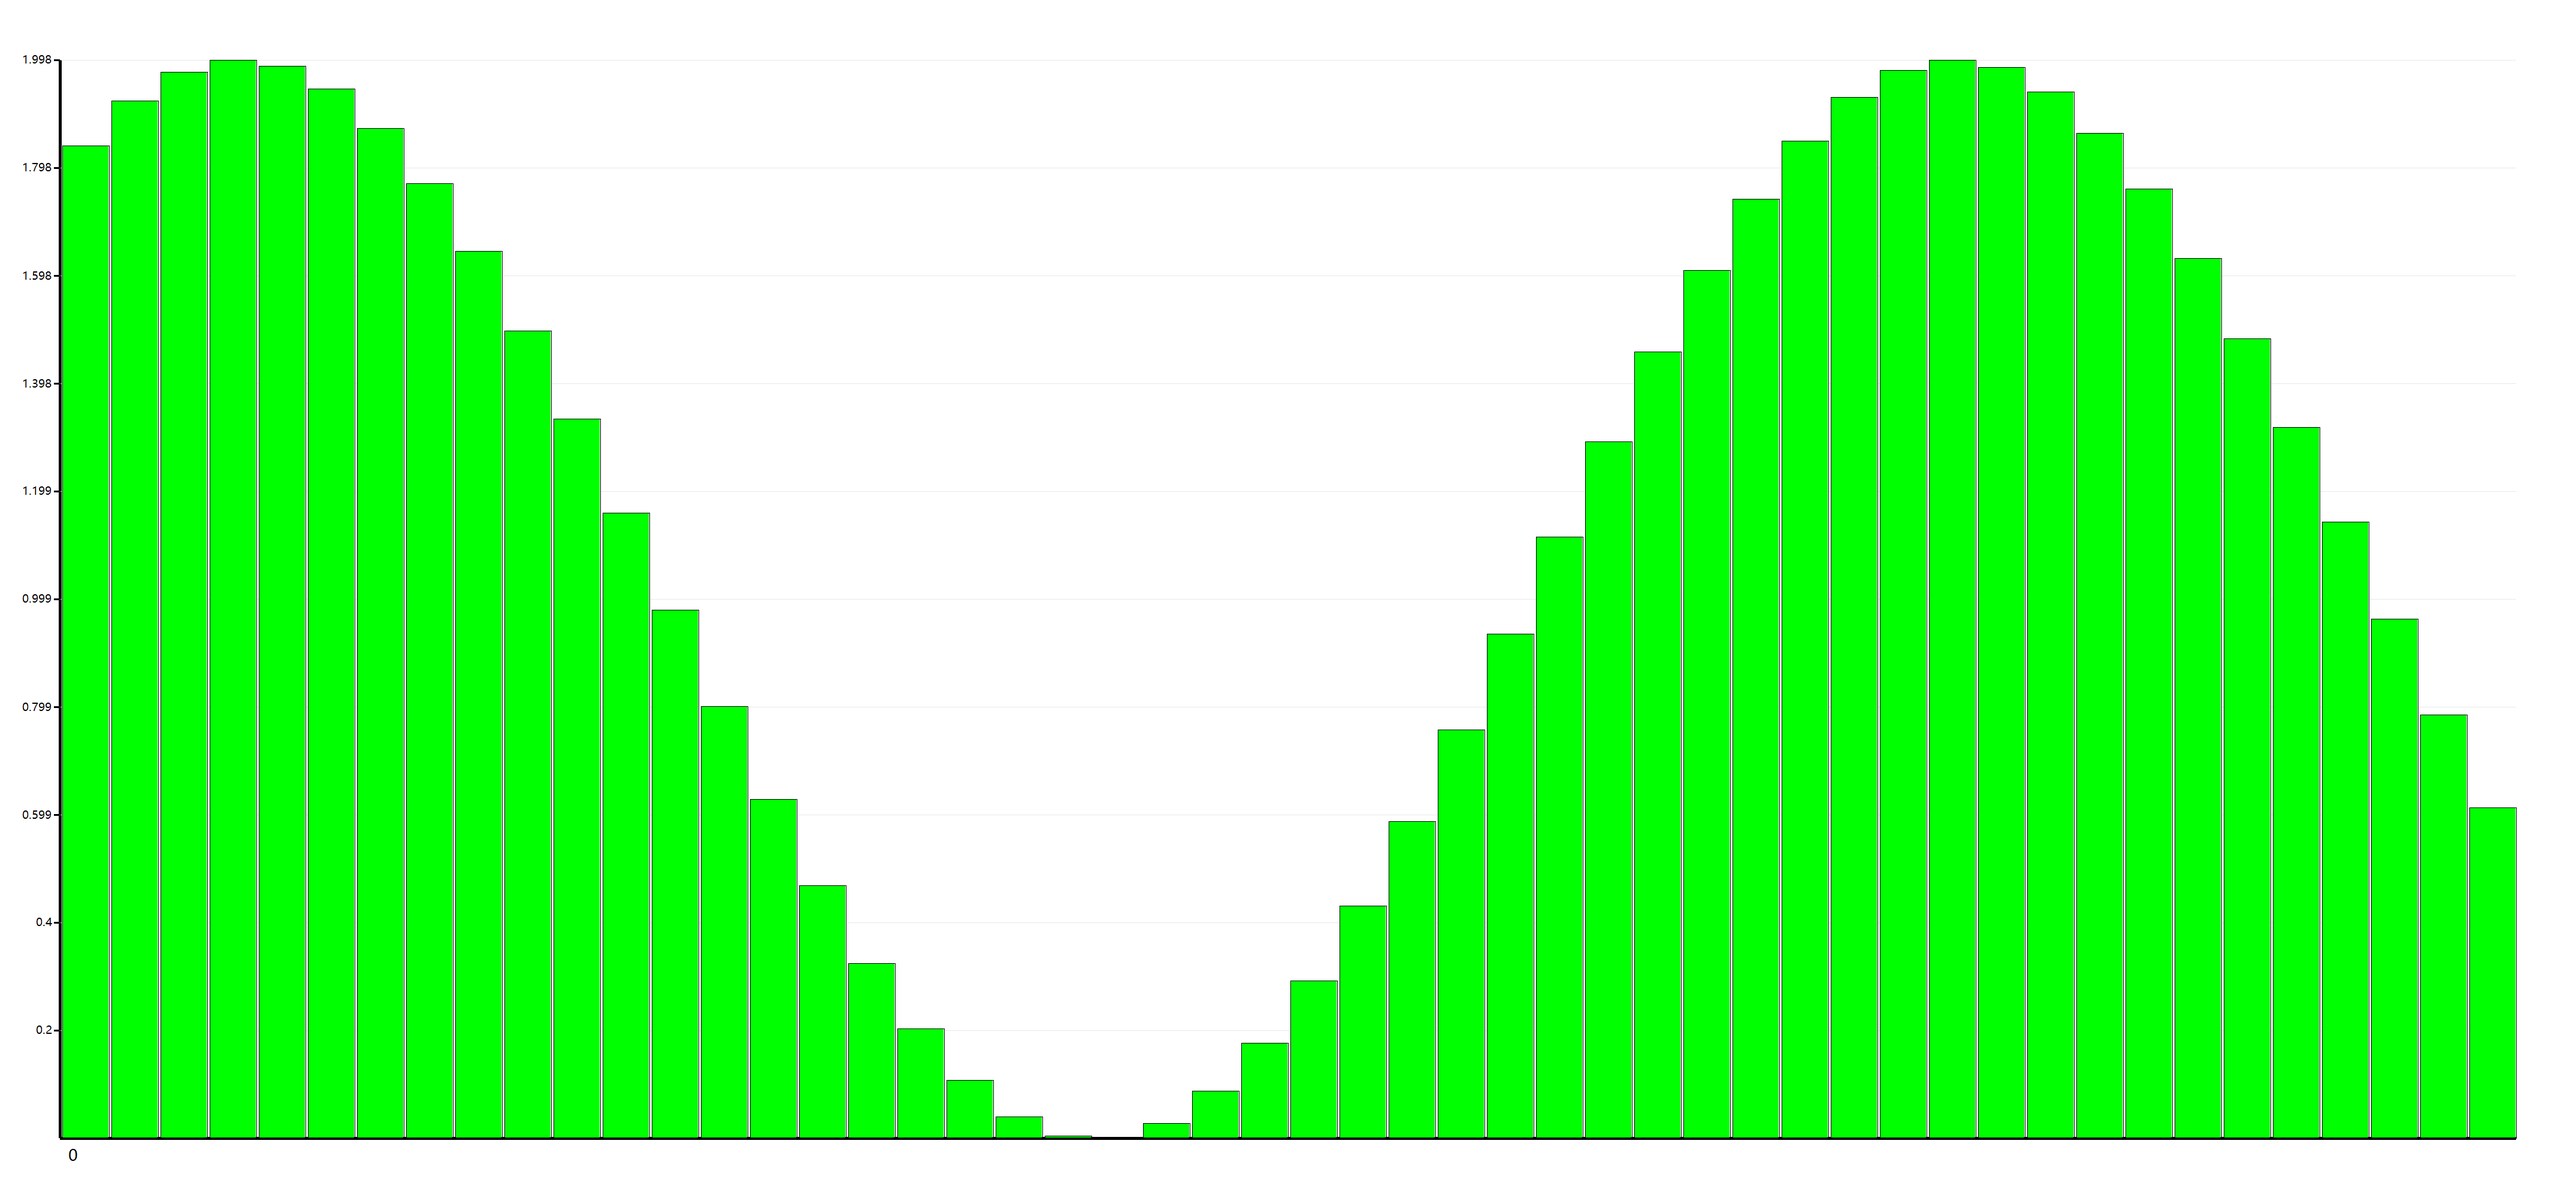
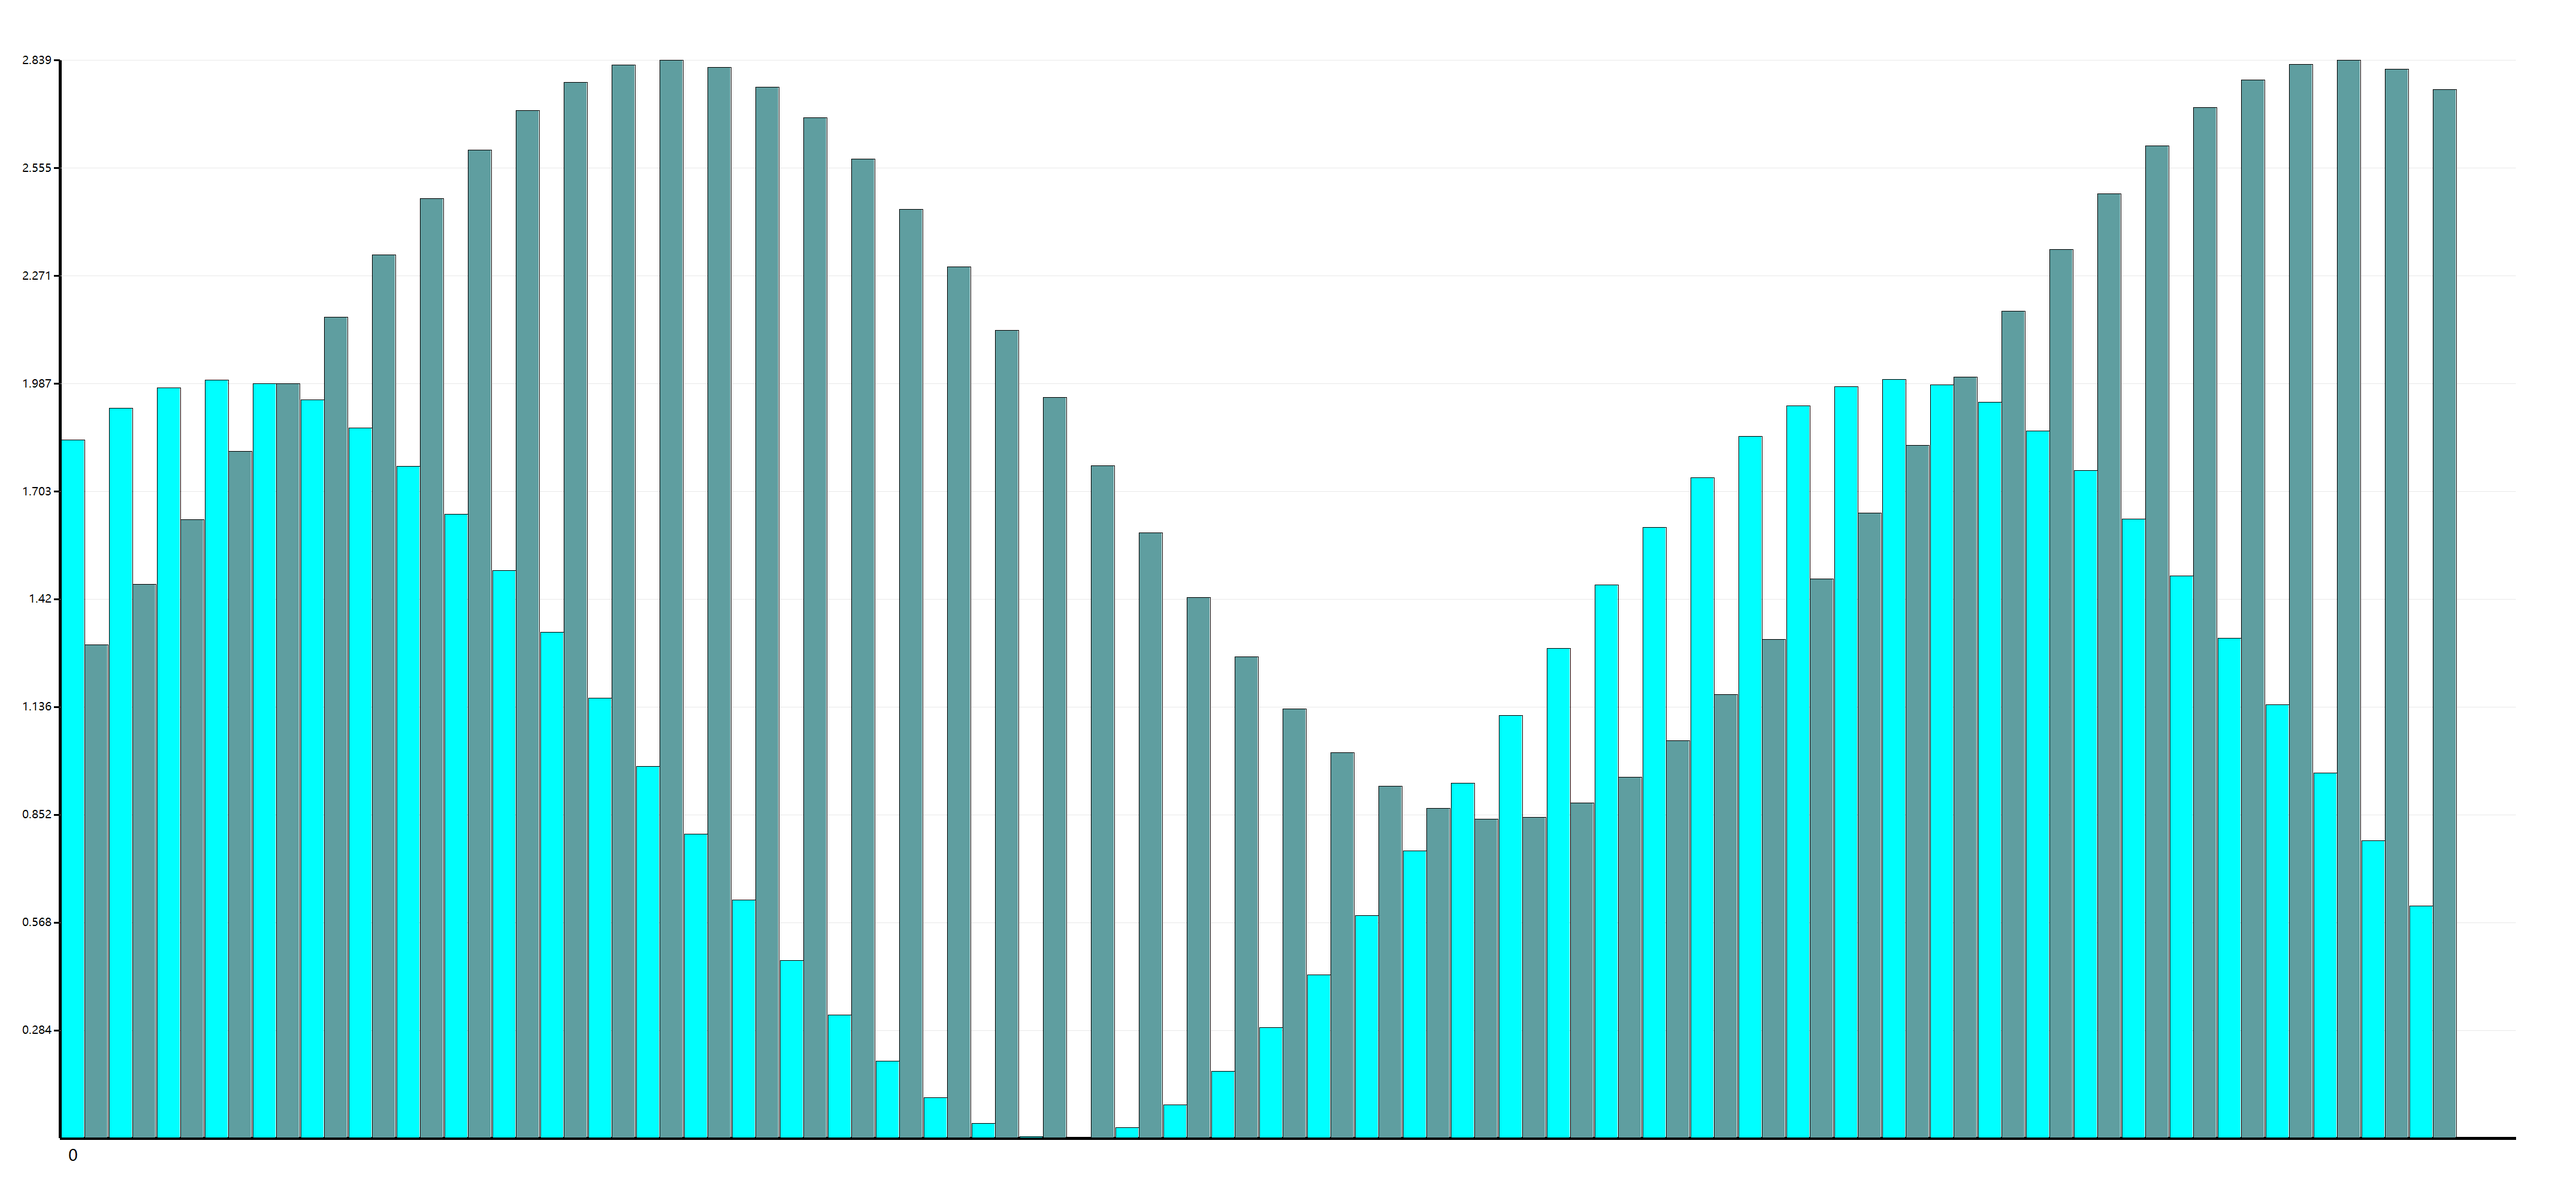
update example test

diff --git a/DataSciences/Math/README.MD b/DataSciences/Math/README.MD
@@ -44,9 +44,20 @@ Dim ode As New ODE With {
     .df = Function(x, y) Math.Cos(x),
     .y0 = 0.540302
 }
+Dim ode2 As New ODE With {
+    .df = Function(x, y) Math.Sin(x),
+    .y0 = Math.Sin(0)
+}
 Call ode.RK4(50, 1, 10)
-Call Scatter.Plot(ode).SaveAs("./cos.png")
-Call Histogram.Plot(ode.y.FromData).SaveAs("./cos.hist.png")
+Call ode2.RK4(50, 1, 10)
+
+Dim serials = {
+    ode.FromODE("red"),
+    ode2.FromODE("lime", DashStyle.Solid)
+}
+
+Call Scatter.Plot(serials).SaveAs("./cos.png")
+Call Histogram.Plot(Histogram.FromODE(ode, ode2)).SaveAs("./cos.hist.png")
 ```
 
 ![](./images/cos.png)
